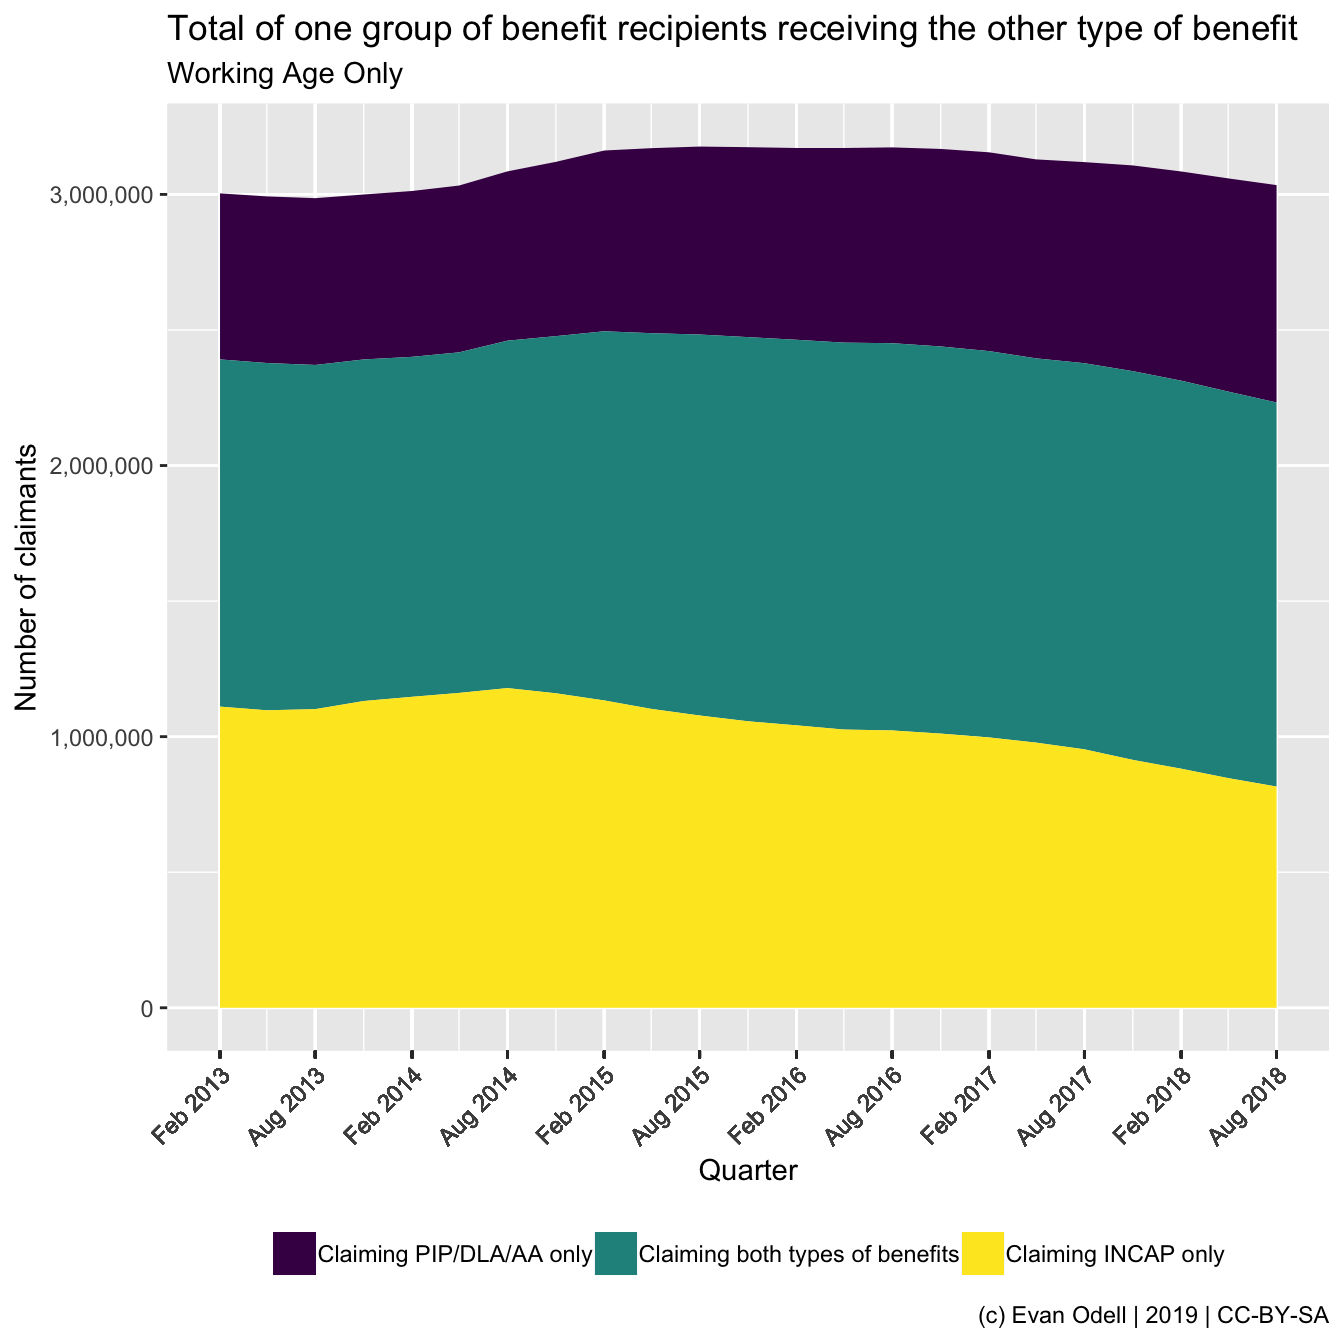
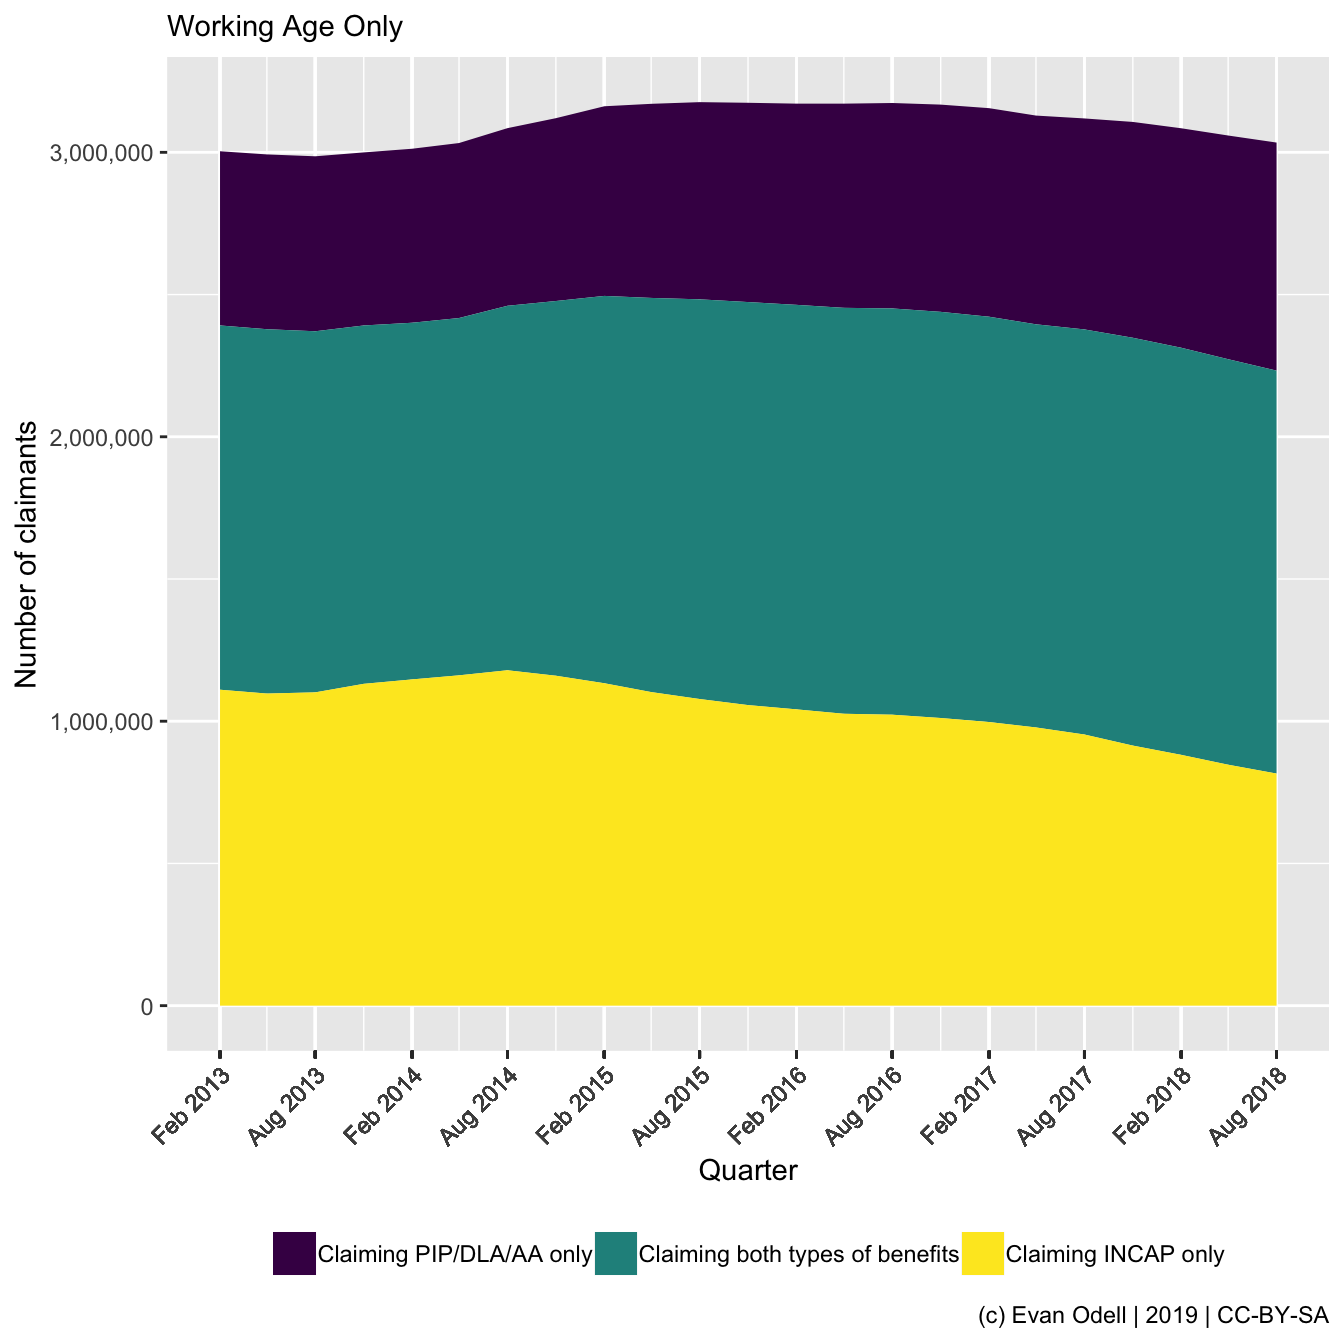
update figure captions

diff --git a/content/blog/2019-03-08-pip-esa-overlap.html b/content/blog/2019-03-08-pip-esa-overlap.html
@@ -20,8 +20,23 @@ image: "/img/esa-overlap.png"
 Figure 1: Percentage of one group of benefit recipients receiving the other type of benefit
 </p>
 </div>
-<p>This prompted discussion about why there appeared to be convergence, and changes in state pension age were mooted as one possible explanation. So here is Figure <a href="#fig:plot2"><strong>??</strong></a>, with five year age bands from 18-64.</p>
-<p><img src="/blog/2019-03-08-pip-esa-overlap_files/figure-html/plot2-1.png" width="672" /></p>
-<p>I was also curious to see the absolute numbers of people claiming PIP/DLA/AA and/or INCAP, so created Figures <a href="#fig:plot3"><strong>??</strong></a> and <a href="#fig:plot4"><strong>??</strong></a> to take a look.</p>
-<p><img src="/blog/2019-03-08-pip-esa-overlap_files/figure-html/plot3-1.png" width="672" /></p>
-<p><img src="/blog/2019-03-08-pip-esa-overlap_files/figure-html/plot4-1.png" width="672" /></p>
+<p>This prompted discussion about why there appeared to be convergence, and changes in state pension age were mooted as one possible explanation. So here is Figure <a href="#fig:plot2">2</a>, with five year age bands from 18-64.</p>
+<div class="figure"><span id="fig:plot2"></span>
+<img src="/blog/2019-03-08-pip-esa-overlap_files/figure-html/plot2-1.png" alt="Percentage of one group of benefit recipients receiving the other type of benefit with five year age bands" width="672" />
+<p class="caption">
+Figure 2: Percentage of one group of benefit recipients receiving the other type of benefit with five year age bands
+</p>
+</div>
+<p>I was also curious to see the absolute numbers of people claiming PIP/DLA/AA and/or INCAP, so created Figures <a href="#fig:plot3">3</a> and <a href="#fig:plot4">4</a> to take a look.</p>
+<div class="figure"><span id="fig:plot3"></span>
+<img src="/blog/2019-03-08-pip-esa-overlap_files/figure-html/plot3-1.png" alt="Total of one group of benefit recipients receiving the other type of benefit" width="672" />
+<p class="caption">
+Figure 3: Total of one group of benefit recipients receiving the other type of benefit
+</p>
+</div>
+<div class="figure"><span id="fig:plot4"></span>
+<img src="/blog/2019-03-08-pip-esa-overlap_files/figure-html/plot4-1.png" alt="Total of one group of benefit recipients receiving the other type of benefit with five year age bands" width="672" />
+<p class="caption">
+Figure 4: Total of one group of benefit recipients receiving the other type of benefit with five year age bands
+</p>
+</div>
